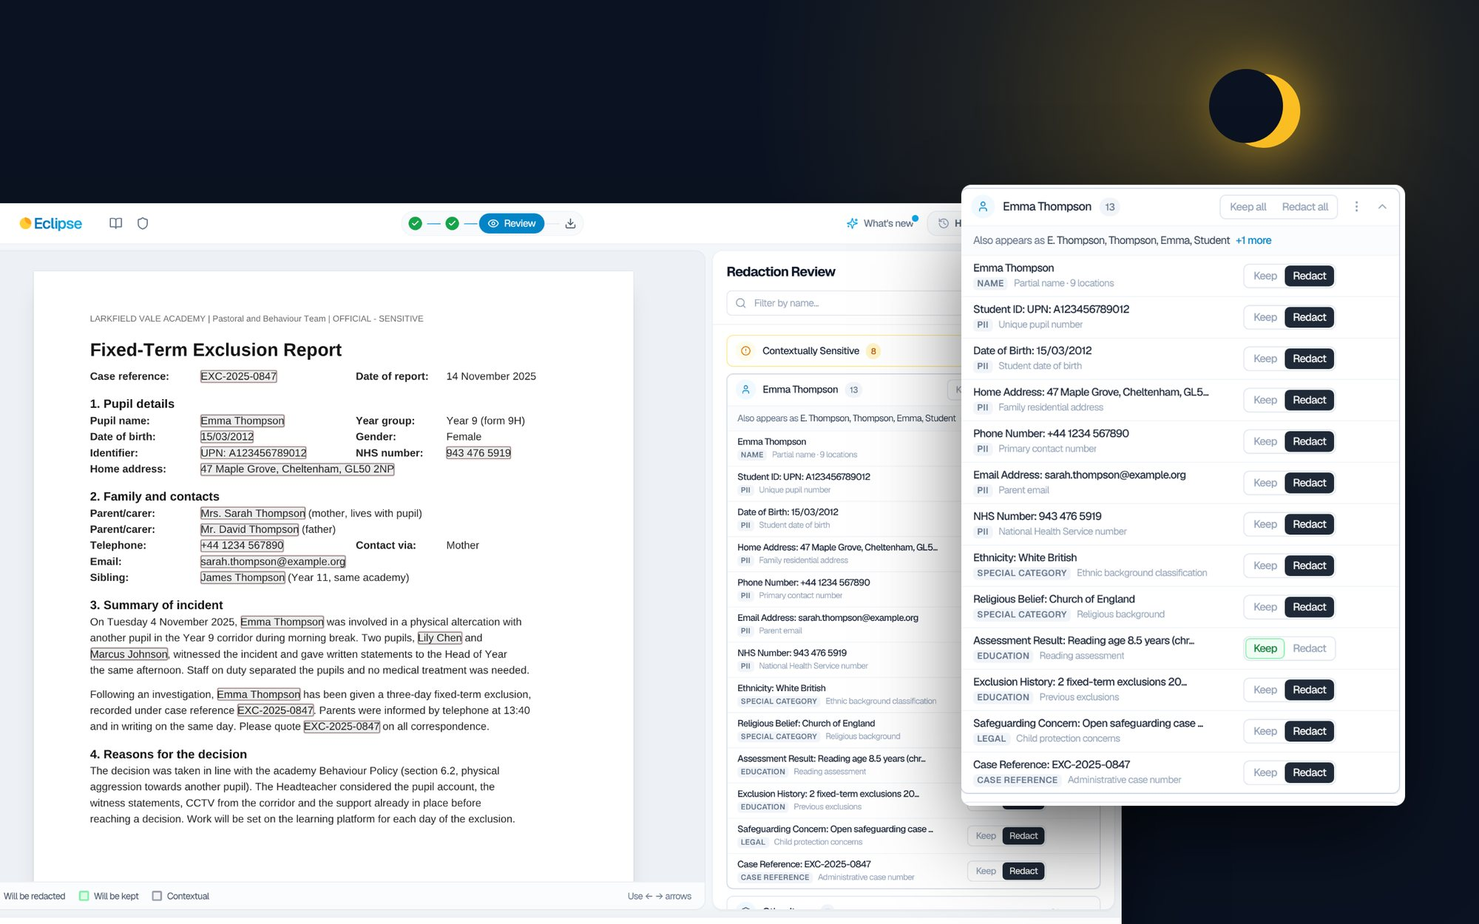
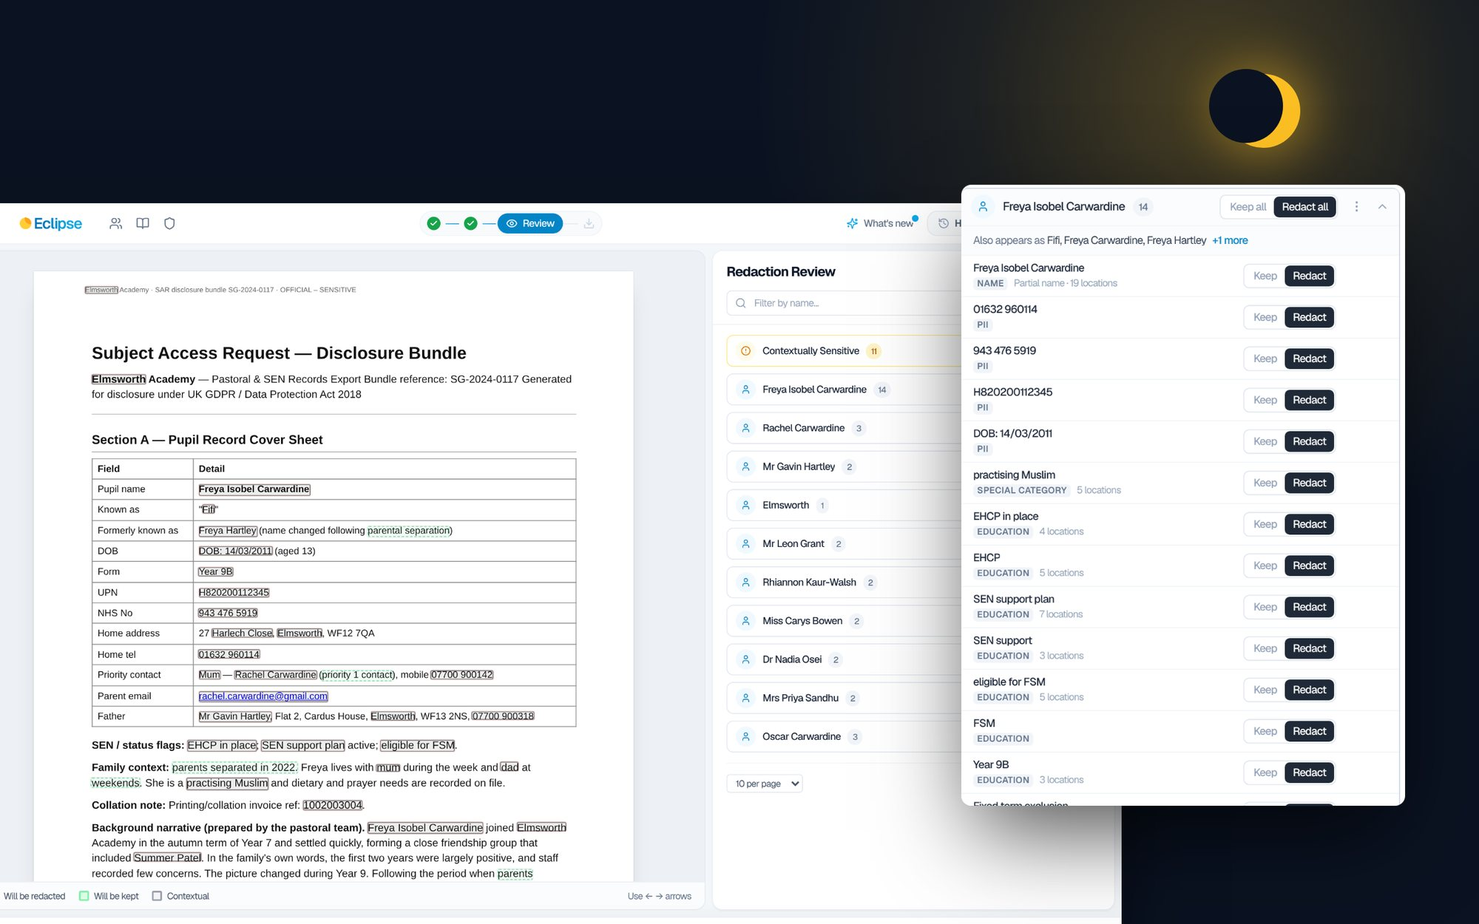
Eclipse: real screenshots from the live staging app; autoresearch prompt story
- Every Eclipse screen is now from a real run on staging (frontend
  v3.18.30) with fictional documents: the SAR bundle review, a person
  group with a name change, contextual items, the postcode the AI
  missed, Search & Redact, a flagged false positive, export, a batch
  (including a real partial failure), the practice run, and the audit
  log (cropped to the findings tables)
- New cover and home card from the real review screen
- The AI section now tells how the extraction prompt was tuned with an
  adapted autoresearch loop (score chart and table of kept changes,
  held-out 89.5 to 97.0) and the Haiku vs Gemini comparison

Claude-Session: https://claude.ai/code/session_01VnSDdqqC1wBWNwZXS2DwsU

diff --git a/src/pages/projects/eclipse.jsx b/src/pages/projects/eclipse.jsx
@@ -12,7 +12,9 @@ import {
     Decisions,
     Ledger,
     Flow,
+    Figure,
     FigureGrid,
+    StatRow,
     FactList,
     NextProject,
 } from '../../components/case';
@@ -28,7 +30,9 @@ import searchImage from '../../assets/projects/eclipse/search.jpg';
 import practiceImage from '../../assets/projects/eclipse/practice.jpg';
 import batchImage from '../../assets/projects/eclipse/batch.jpg';
 import analysingImage from '../../assets/projects/eclipse/analysing.jpg';
-import historyImage from '../../assets/projects/eclipse/history.jpg';
+import batchErrorsImage from '../../assets/projects/eclipse/batch-errors.jpg';
+import flagImage from '../../assets/projects/eclipse/flag.jpg';
+import ScoreChart from './eclipse/ScoreChart';
 import auditImage from '../../assets/projects/eclipse/audit-log.jpg';
 
 const project = caseStudies.find((p) => p.id === 'eclipse');
@@ -40,7 +44,7 @@ const summary = [
     },
     {
         label: 'What I did',
-        text: 'I designed the workflow and its screens and built the React frontend, from upload to audit log. I also wrote the extraction prompt behind Enhanced mode.',
+        text: 'I designed the workflow and its screens and built the React frontend, from upload to audit log. Then I tuned the extraction prompt with an autoresearch loop: 22 experiments in a day, held-out score up from 89.5 to 97.0.',
     },
     {
         label: 'Outcome',
@@ -65,9 +69,9 @@ const steps = [
     },
     {
         title: 'Analyse',
-        description: 'While a document is analysed, the screen shows a sourced fact about information law instead of a spinner. It ends on an overview of who was found and what kind of data.',
+        description: 'While a document is analysed, the screen shows a sourced fact about information law instead of a spinner. The six-page bundle on these screens took just over two minutes: 25 people and 54 sensitive items.',
         image: analysingImage,
-        alt: 'Analysing screen with the eclipse loader, elapsed time, an estimate and a fact about subject access request deadlines',
+        alt: 'Analysing screen with the eclipse loader, elapsed time, an estimate and a fact about the offence of altering records after a request arrives',
         caption: 'Analysing: a sourced legal fact, not a spinner',
     },
     {
@@ -89,20 +93,20 @@ const steps = [
 const decisions = [
     {
         title: 'Group findings by person, not by type',
-        problem: 'A flat list of findings is slow to work through and hides the hard cases: a surname that is also a common word, or two different people both called “Mum”.',
+        problem: 'A flat list of findings hides the hard cases. In the bundle shown here, the pupil appears as Freya Isobel Carwardine, Freya Carwardine, Freya Hartley (before a name change) and “Fifi”, and an unrelated teacher shares her father’s surname.',
         decision: 'In Enhanced mode everything about one person sits under their name, with their other forms of address on one line. A single Keep | Redact control works on the whole person, one item or one occurrence, and each row shows a short category tag instead of repeating the text.',
         image: reviewPeopleImage,
         contain: false,
-        alt: 'Review sidebar: Emma Thompson’s group with her aliases on one line and a Keep or Redact choice on each of her 13 items',
+        alt: 'Review sidebar: Freya Isobel Carwardine’s group, “Also appears as Fifi, Freya Carwardine, Freya Hartley”, with a Keep or Redact choice on each of her 14 items',
         caption: 'One person, every mention and detail, one decision per row',
     },
     {
         title: 'Make judgement calls look like judgement calls',
         problem: 'Health and family details, such as a diagnosis or who a child lives with, are not always meant to go. Redacting them by default quietly withholds information; keeping them by default could expose it.',
-        decision: 'They get their own pinned “Contextually sensitive” group, start as Keep so a person decides, and are outlined with a dashed border in the document. People and hard identifiers start as Redact.',
+        decision: 'They get their own pinned “Contextually sensitive” group, start as Keep so a person decides, and are outlined with a dashed border in the document. Here that is ASD, ADHD, a CAMHS referral, self-harm and the parents’ separation. People and hard identifiers start as Redact.',
         image: contextualImage,
         contain: false,
-        alt: 'The Contextually Sensitive group expanded in the review sidebar, with its items set to Keep',
+        alt: 'Document lines with dashed outlines next to the expanded Contextually Sensitive group: ASD, ADHD, CAMHS referral, self-harm and family items, all set to Keep',
         caption: 'Contextually sensitive items wait for a person',
     },
     {
@@ -116,16 +120,16 @@ const decisions = [
     },
     {
         title: 'Fix what the AI missed in one gesture',
-        problem: 'No model finds everything. Adding a missed redaction took several steps, and a missed name usually appears more than once.',
-        decision: 'Press S and drag: the box snaps to whole words and asks who it belongs to, with the nearest person suggested. Deleting has an Undo instead of a confirmation. Search & Redact finds every other occurrence as you type, so you tick the ones to remove.',
+        problem: 'No model finds everything: in this run it missed the father’s postcode. Adding a missed redaction used to take several steps, and a missed name usually appears more than once.',
+        decision: 'Press S and drag: the box snaps to whole words and asks who it belongs to, with the nearest person suggested. Deleting has an Undo instead of a confirmation. Search & Redact finds every occurrence as you type; hits that are already redacted start unticked, so you only decide what is left.',
         image: drawImage,
         contain: false,
-        alt: 'A box drawn over a word in the document with a popover asking which person it belongs to',
-        caption: 'Draw, snap to words, attach to a person',
+        alt: 'A box drawn over the postcode WF13 2NS with a popover suggesting Mr Gavin Hartley, mentioned on the same line',
+        caption: 'The missed postcode, drawn and attached to the father',
         extra: {
             image: searchImage,
-            alt: 'Search & Redact drawer listing every occurrence of a search term, with the hits highlighted in the document',
-            caption: 'Search & Redact: every occurrence, ticked one by one',
+            alt: 'Search & Redact for “Hartley”: 14 matches on 5 pages, already redacted, including Mrs Diane Hartley, an unrelated teacher',
+            caption: 'Search & Redact for “Hartley”: the father and an unrelated teacher',
         },
     },
     {
@@ -134,7 +138,7 @@ const decisions = [
         decision: 'A practice run on a fictional document, through the real screens, using no trial documents. A ring marks the next real control and a quiet note explains why; the guide never clicks for you. Getting there took ten rounds, listed below.',
         image: practiceImage,
         contain: false,
-        alt: 'The practice run: a ring around a real control and a short note explaining what to do next',
+        alt: 'The practice run, step 1 of 8: a ring around the real Standard or Enhanced control and a short note explaining the choice',
         caption: 'The practice run guides through the real interface',
     },
     {
@@ -143,7 +147,7 @@ const decisions = [
         decision: 'One column: files, pages, quota cost and time estimate directly above a single “Start processing” button. Once the batch runs, the same slot becomes the progress bar and the promise of an email. Cancelling asks first and says the uploads will be deleted.',
         image: batchImage,
         contain: false,
-        alt: 'Batch summary page with files, pages, quota cost and estimated time above the Start processing button',
+        alt: 'Batch page for three files: 60 pages, a quota cost of 60 and 4 to 5 minutes, directly above Start processing',
         caption: 'The batch page, rebuilt around its one decision',
     },
 ];
@@ -172,7 +176,7 @@ const pipeline = [
     {
         step: 'Detect',
         nodes: [
-            { title: 'Gemini', text: 'People, their aliases and five categories of sensitive data.' },
+            { title: 'Language model', text: 'People, their aliases and five categories of sensitive data. Gemini in production, Claude Haiku on staging.' },
             { title: 'NLP safety net', text: 'Deterministic UK patterns: UPN, NHS and NI numbers, phones, postcodes.' },
         ],
     },
@@ -194,8 +198,32 @@ const pipeline = [
     },
 ];
 
+const experiments = [
+    { id: 'e001', n: 1, score: 90.41, change: 'Baseline: the production prompt, with its examples swapped for invented ones', label: 'baseline', labelBelow: true },
+    { id: 'e002', n: 2, score: 94.19, change: 'A checklist of every form a name can take', label: 'name-form checklist', labelBelow: true },
+    { id: 'e003', n: 3, score: 95.23, change: 'Every wording of a fact listed as its own item', label: 'every wording its own item' },
+    { id: 'e014', n: 14, score: 96.89, change: 'Bare surnames, safeguarding-lead items, relationship phrases split out, no court orders', label: 'four rule fixes', labelLeft: true },
+    { id: 'e016', n: 16, score: 96.88, change: 'Worked examples removed: same score, less prompt' },
+    { id: 'e017', n: 17, score: 96.91, change: 'Format section compressed to one paragraph' },
+];
+
+const keeps = [
+    ['e001', 'Baseline: the production prompt, with its examples swapped for invented ones', '90.41'],
+    ['e002', 'A checklist of every form a name can take', '94.19'],
+    ['e003', 'Every wording of a fact listed as its own item', '95.23'],
+    ['e014', 'Bare surnames, safeguarding-lead items, relationship phrases split out', '96.89'],
+    ['e016', 'Worked examples removed (kept: within half a point, less text)', '96.88'],
+    ['e017', 'Format section compressed to one paragraph', '96.91'],
+];
+
+const research = [
+    { value: '97.0', label: 'held-out score, up from 89.5, on a document the loop never saw' },
+    { value: '22', label: 'experiments in one day, 7 of them kept' },
+    { value: '9', label: 'real people Haiku found that Gemini missed, in six new documents; none the other way' },
+];
+
 const team = [
-    { label: 'Me', value: 'Product design, frontend, extraction prompt' },
+    { label: 'Me', value: 'Product design, frontend, prompt tuning and evaluation' },
     { label: 'Product owner', value: 'Priorities and roadmap' },
     { label: 'Lead engineer', value: 'Backend, document pipeline, billing' },
     { label: 'Machine learning specialist', value: 'Detection models and the feedback loop' },
@@ -274,39 +302,81 @@ const Eclipse = () => (
             </div>
         </CaseSection>
 
-        <CaseSection index="06" label="The AI" title="Two engines and a *strict* prompt" wide>
+        <CaseSection index="06" label="The AI" title="A prompt tuned like an *experiment*" wide>
             <div className="grid-12 gap-y-16">
                 <div className="col-span-4 md:col-span-8 md:col-start-5">
                     <Prose>
                         <p>
                             <strong>Standard</strong> runs language-processing models tuned for UK identifiers: fast,
-                            half the page quota, and grouped by type. <strong>Enhanced</strong> adds OCR and Gemini,
-                            which read the context and, on Lunar plans, link findings to people.
+                            half the page quota, and grouped by type. <strong>Enhanced</strong> adds OCR and a language
+                            model that reads the context and, on Lunar plans, links findings to people.
                         </p>
                     </Prose>
                 </div>
                 <div className="col-span-4 md:col-span-12">
-                    <Flow stages={pipeline} caption="Enhanced mode. Standard skips OCR and Gemini and groups findings by type." />
+                    <Flow stages={pipeline} caption="Enhanced mode. Standard skips OCR and the language model and groups findings by type." />
                 </div>
                 <div className="col-span-4 md:col-span-8 md:col-start-5 flex flex-col gap-12">
-                    <Callout note="From the production prompt">
-                        Extract only what clearly fits a category. When uncertain, *leave* it out.
+                    <Callout note="From the rules of the tuning loop">
+                        The user can untick a false positive, but nobody *notices* a miss.
                     </Callout>
                     <Prose>
                         <p>
-                            The first draft of the prompt told the model: “DO NOT miss any potentially sensitive
-                            information.” The production prompt says the opposite. Around the model now sit deterministic
-                            patterns for identifiers, Search &amp; Redact and drawing for what it misses, and a person who
-                            reviews everything.
+                            Tuning the extraction prompt by hand meant guessing. So I adapted Andrej Karpathy&apos;s
+                            autoresearch loop to it. An agent may edit only the prompt. A script scores every version
+                            against three long, fictional school documents with labelled answers: 132 people, 284
+                            sensitive items and 188 decoys that must not be flagged.
                         </p>
                         <p>
-                            The prompt defines who counts as a person, including people named only by relationship
-                            (“Grandma”, “Akira&apos;s uncle”) and staff initials, and five categories of sensitive data,
-                            with worked examples of what not to flag: “feeling anxious” is an emotion, not a diagnosis.
-                            When reviewers mark a finding as not sensitive, they pick a reason and it goes to a queue the
-                            team reviews, rather than straight into a blocklist.
+                            The score weights recall four times over precision, penalises merging two people into one,
+                            and drops to zero if the person the request is about is missed. The same prompt scores
+                            differently each run, so every version runs three times per document. A change is kept only if
+                            it beats the best by a point over six runs, or removes text without losing more than half a
+                            point. The agent never sees the answers, a guard rejects any prompt that quotes a test
+                            document, and a held-out file it never sees checks for overfitting.
                         </p>
                     </Prose>
+                </div>
+                <div className="col-span-4 md:col-span-12">
+                    <ScoreChart points={experiments} />
+                    <p className="mt-12 text-[0.8rem] leading-snug text-mute">
+                        Training score after each kept change, 12 October 2026. Hover a point for the change.
+                    </p>
+                </div>
+                <div className="col-span-4 md:col-span-12">
+                    <Ledger columns={['Experiment', 'Change', 'Score']} rows={keeps} accent={1} />
+                </div>
+                <div className="col-span-4 md:col-span-8 md:col-start-5 flex flex-col gap-12">
+                    <Prose>
+                        <p>
+                            The biggest gains were rules about names, not data. Each form of a name is searched and
+                            redacted separately, so the prompt now spells it out: “a form you leave out stays visible in
+                            the disclosure.” Later keeps made the prompt simpler: the worked examples went, and the
+                            score held.
+                        </p>
+                        <p>
+                            The tuned prompt runs on Claude Haiku. On six different fictional documents (121 pages),
+                            Haiku on staging found nine real people that Gemini in production missed, and none the other
+                            way round. It listed 708 name variants to Gemini&apos;s 461, and never used role words like
+                            “DSL” or “Headteacher” as names, which would black out every mention of a role. Gemini was
+                            still better at splitting couples like “D. &amp; S. Thornton-Wells” into two people.
+                            Production still runs Gemini; Haiku is on staging.
+                        </p>
+                    </Prose>
+                    <StatRow stats={research} />
+                    <Prose>
+                        <p>
+                            What the loop can&apos;t catch, reviewers can. Clicking a finding in the document offers Keep,
+                            Redact or a flag. A flagged item stays readable, and its reason goes to a queue the team
+                            reviews, rather than straight into a blocklist.
+                        </p>
+                    </Prose>
+                    <Figure
+                        src={flagImage}
+                        alt="The town Elmsworth, read as a person, flagged in the document with the reason Location/room name selected"
+                        fig="12"
+                        caption="A town the model read as a person, flagged in one click"
+                    />
                 </div>
             </div>
         </CaseSection>
@@ -329,19 +399,19 @@ const Eclipse = () => (
                             rewrite of the overlay layer wasn&apos;t needed.
                         </p>
                         <p>
-                            The quieter states get the same care. History puts the documents that need you first and
-                            warns before files expire. An analysis error names the stage and confirms no pages were
-                            charged. The audit log is built to be filed: what was found, what was redacted or kept, for
-                            whom and on which page.
+                            The quieter states get the same care. When one file in a batch fails, the batch says so,
+                            keeps the others moving and offers a retry in place. History puts the documents that need you
+                            first and warns before files expire. The audit log is built to be filed: what was found, what
+                            was redacted or kept, for whom and on which page.
                         </p>
                     </Prose>
                 </div>
                 <div className="col-span-4 md:col-span-12">
                     <FigureGrid
-                        figStart={12}
+                        figStart={13}
                         figures={[
-                            { src: historyImage, alt: 'History page with documents waiting for review at the top', caption: 'History: what needs you comes first' },
-                            { src: auditImage, alt: 'First page of a redaction audit log for a fictional academy: coverage, document information and findings by category', caption: 'Audit log: a record a DPO can file' },
+                            { src: batchErrorsImage, alt: 'Batch finished with errors: two of three files done, one failed with a Retry analysis button', caption: 'A real failure on staging: one file failed, the rest carried on' },
+                            { src: auditImage, alt: 'Audit log tables: what was redacted by category and which items were kept, including the flagged town', caption: 'The audit log: what was found, redacted and kept' },
                         ]}
                     />
                 </div>

diff --git a/src/pages/projects/eclipse/ScoreChart.jsx b/src/pages/projects/eclipse/ScoreChart.jsx
@@ -1,0 +1,92 @@
+// The autoresearch run on the Eclipse extraction prompt: training score after each kept
+// change, as a step line over the 22 experiments. Labels and points are HTML positioned in
+// percentages so the text stays legible at any width; the table under the chart (a Ledger
+// on the page) carries the same numbers.
+import { useState } from 'react';
+import { motion, useReducedMotion } from 'framer-motion';
+import { easeOutExpo } from '../../../lib/motion';
+
+const RUNS = 22;
+const Y_MIN = 88;
+const Y_MAX = 98;
+const x = (n) => ((n - 1) / (RUNS - 1)) * 100;
+const y = (score) => 100 - ((score - Y_MIN) / (Y_MAX - Y_MIN)) * 100;
+
+const ScoreChart = ({ points }) => {
+    const [hover, setHover] = useState(null);
+    const reduce = useReducedMotion();
+    const path = points.reduce((d, p, i) => (i === 0 ? `M ${x(p.n)} ${y(p.score)}` : `${d} H ${x(p.n)} V ${y(p.score)}`), '') + ` H 100`;
+    const ticks = [90, 92, 94, 96, 98];
+    const active = hover === null ? null : points[hover];
+
+    return (
+        <figure>
+            <div className="relative h-64 md:h-80 ml-8 mr-2 mt-4">
+                {ticks.map((t) => (
+                    <div key={t} className="absolute inset-x-0 border-t border-line" style={{ top: `${y(t)}%` }}>
+                        <span className="absolute -left-8 -translate-y-1/2 label tabular text-mute">{t}</span>
+                    </div>
+                ))}
+                <motion.div
+                    className="absolute inset-0"
+                    initial={reduce ? false : { clipPath: 'inset(0% 100% 0% 0%)' }}
+                    whileInView={{ clipPath: 'inset(0% 0% 0% 0%)' }}
+                    viewport={{ once: true, amount: 0.4 }}
+                    transition={{ duration: 1.6, ease: easeOutExpo }}
+                >
+                    <svg viewBox="0 0 100 100" preserveAspectRatio="none" className="absolute inset-0 w-full h-full overflow-visible" aria-hidden="true">
+                        <path d={path} fill="none" stroke="rgb(var(--ink))" strokeWidth="2" vectorEffect="non-scaling-stroke" />
+                    </svg>
+                </motion.div>
+                {points.map((p, i) => (
+                    <button
+                        key={p.id}
+                        type="button"
+                        onMouseEnter={() => setHover(i)}
+                        onMouseLeave={() => setHover(null)}
+                        onFocus={() => setHover(i)}
+                        onBlur={() => setHover(null)}
+                        aria-label={`${p.id}, score ${p.score}: ${p.change}`}
+                        className="absolute w-8 h-8 -translate-x-1/2 -translate-y-1/2 grid place-items-center"
+                        style={{ left: `${x(p.n)}%`, top: `${y(p.score)}%` }}
+                    >
+                        <span className={`block rounded-full bg-signal ring-2 ring-paper transition-transform duration-300 ${hover === i ? 'w-3.5 h-3.5' : 'w-2.5 h-2.5'}`} />
+                    </button>
+                ))}
+                {points.filter((p) => p.label).map((p) => (
+                    <span
+                        key={`label-${p.id}`}
+                        aria-hidden="true"
+                        className="absolute pointer-events-none label !normal-case !tracking-normal text-[0.72rem] text-ink-2 whitespace-nowrap"
+                        style={{
+                            ...(p.labelLeft ? { right: `calc(${100 - x(p.n)}% + 10px)` } : { left: `calc(${x(p.n)}% + 10px)` }),
+                            top: `calc(${y(p.score)}% + ${p.labelBelow ? 8 : -22}px)`,
+                        }}
+                    >
+                        <span className="text-ink tabular">{p.score.toFixed(1)}</span> {p.label}
+                    </span>
+                ))}
+                {active && (
+                    <div
+                        role="status"
+                        className="absolute z-10 pointer-events-none w-56 rounded-[4px] bg-ink text-paper px-3 py-2.5 text-[0.8rem] leading-snug shadow-[0_12px_30px_-10px_rgb(0_0_0/0.5)]"
+                        style={{
+                            left: `clamp(0px, calc(${x(active.n)}% - 7rem), calc(100% - 14rem))`,
+                            top: `calc(${y(active.score)}% + 18px)`,
+                        }}
+                    >
+                        <span className="label text-paper/60">{active.id} · {active.score.toFixed(2)}</span>
+                        <span className="block mt-1.5">{active.change}</span>
+                    </div>
+                )}
+                <div className="absolute inset-x-0 top-full mt-3 flex justify-between label !normal-case text-mute">
+                    <span>e001</span>
+                    <span>e011</span>
+                    <span>e022</span>
+                </div>
+            </div>
+        </figure>
+    );
+};
+
+export default ScoreChart;
